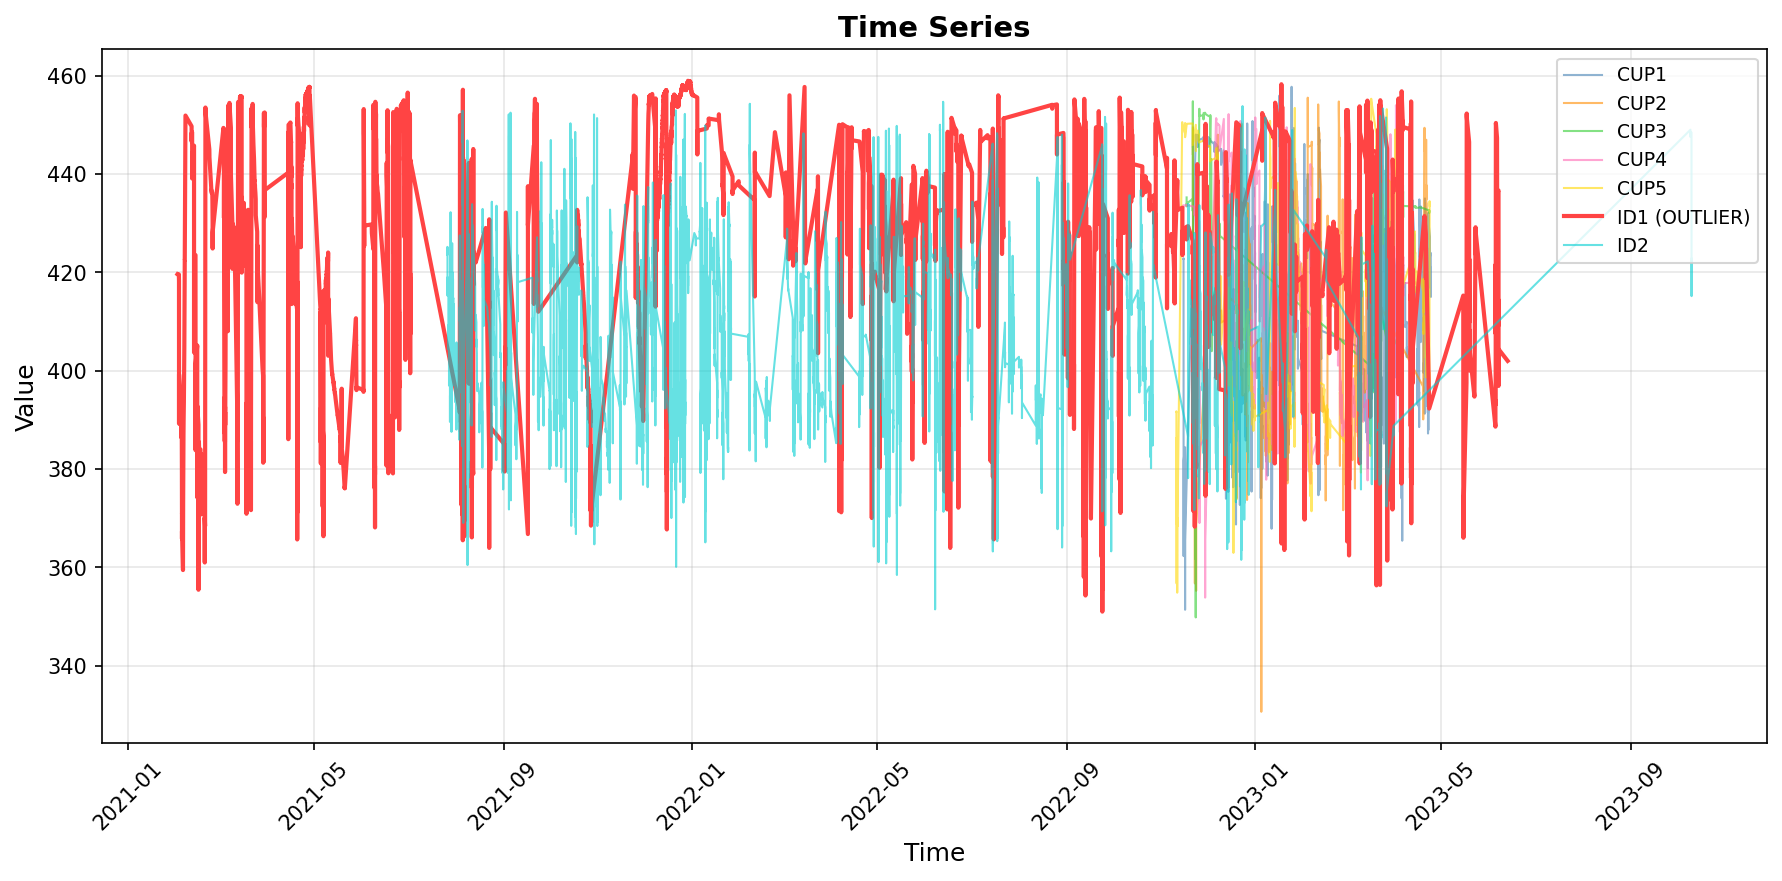
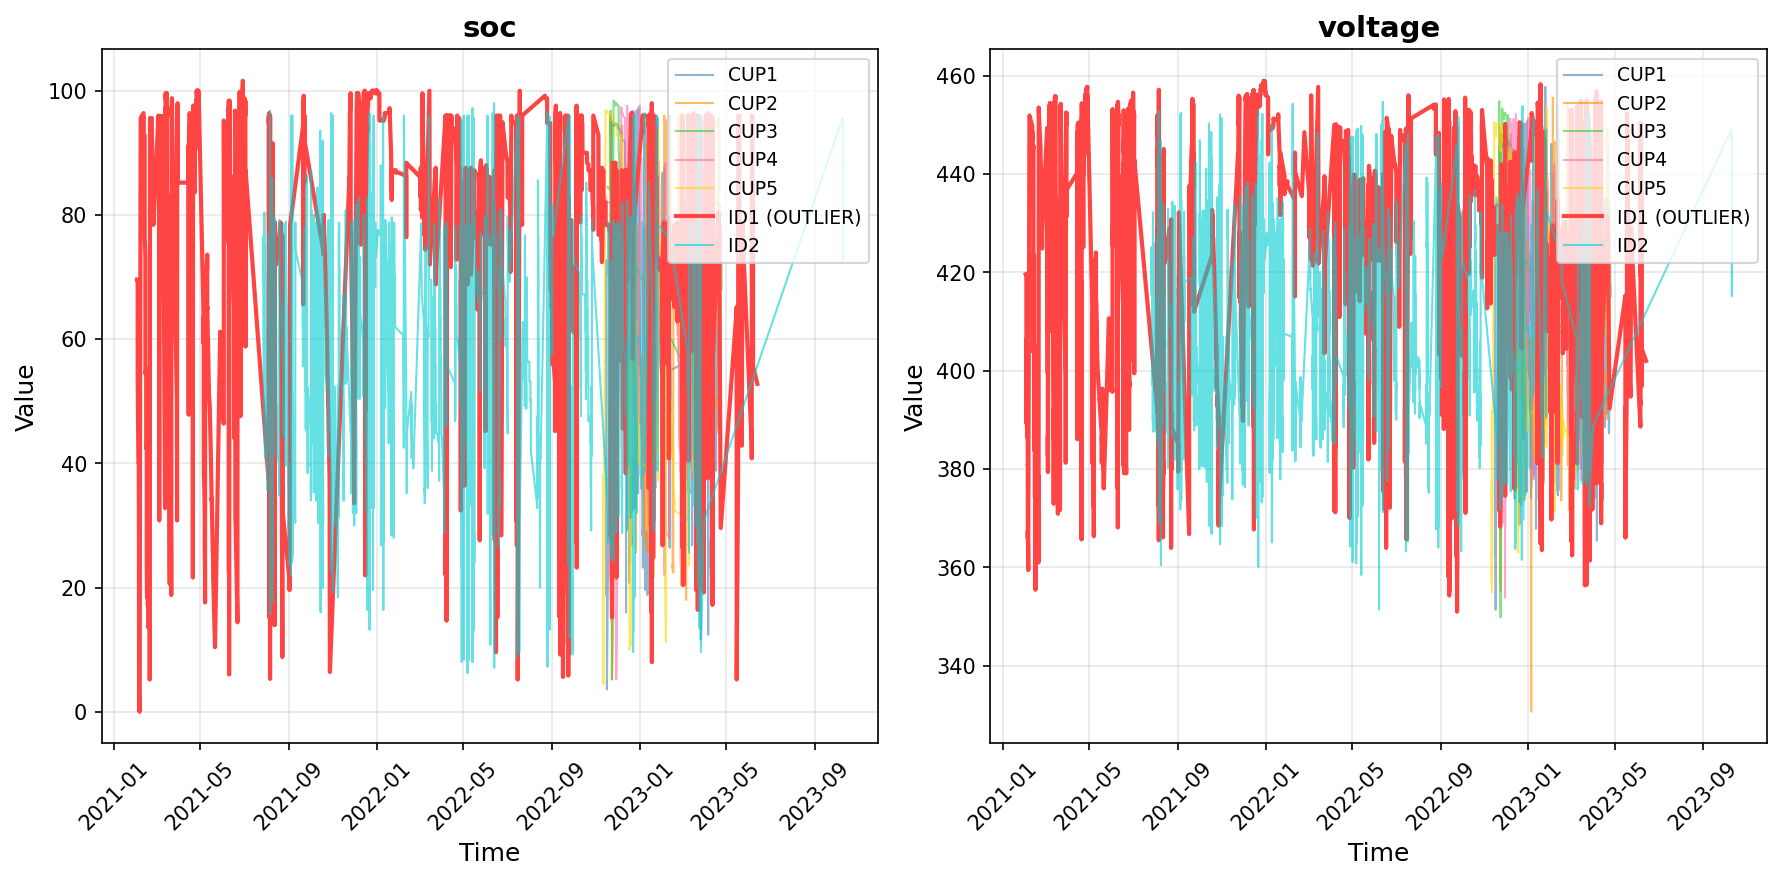
vehicle diagrams generated

diff --git a/src/anomaly_detector.py b/src/anomaly_detector.py
@@ -760,65 +760,69 @@ def generate_plot_data(parameter_anomaly_group_array: List[Dict],
 
     # ========== TIME-SERIES ONLY PLOTS ==========
     if data_type == 'time-series':
-        # Volume (time series)
+        # Volume (time series) - include all features
         plots['volume'] = {'series': []}
         for idx, group in enumerate(parameter_anomaly_group_array):
             group_id = group['parameterAnomalyGroupId']
             is_outlier = group.get('isOutlier', False)
 
             if group['featureArray']:
-                feature = group['featureArray'][0]
-                points = []
+                for feature in group['featureArray']:
+                    feature_name = feature.get('featureName', 'unknown')
+                    points = []
 
-                for point in feature.get('parameterHistoryArray', []):
-                    timestamp_iso = pd.to_datetime(point['createdAt']).isoformat()
-                    value = point['value']
-                    point_is_outlier = point.get('isOutlier', False)
+                    for point in feature.get('parameterHistoryArray', []):
+                        timestamp_iso = pd.to_datetime(point['createdAt']).isoformat()
+                        value = point['value']
+                        point_is_outlier = point.get('isOutlier', False)
 
-                    points.append({
-                        'timestamp': timestamp_iso,
-                        'value': float(value),
-                        'isOutlier': point_is_outlier
+                        points.append({
+                            'timestamp': timestamp_iso,
+                            'value': float(value),
+                            'isOutlier': point_is_outlier
+                        })
+
+                    plots['volume']['series'].append({
+                        'groupId': group_id,
+                        'isOutlier': is_outlier,
+                        'featureName': feature_name,
+                        'points': points
                     })
 
-                plots['volume']['series'].append({
-                    'groupId': group_id,
-                    'isOutlier': is_outlier,
-                    'points': points
-                })
-
-        # Monthly STD trends
+        # Monthly STD trends - include all features
         plots['std'] = {'series': []}
         for idx, group in enumerate(parameter_anomaly_group_array):
             group_id = group['parameterAnomalyGroupId']
             is_outlier = group.get('isOutlier', False)
 
             if group['featureArray']:
-                feature = group['featureArray'][0]
-                param_history = feature.get('parameterHistoryArray', [])
+                for feature in group['featureArray']:
+                    feature_name = feature.get('featureName', 'unknown')
+                    param_history = feature.get('parameterHistoryArray', [])
 
-                if len(param_history) > 0:
-                    df = pd.DataFrame([
-                        {'time': pd.to_datetime(p['createdAt']), 'value': p['value']}
-                        for p in param_history
-                    ])
+                    if len(param_history) > 0:
+                        df = pd.DataFrame([
+                            {'time': pd.to_datetime(p['createdAt']), 'value': p['value']}
+                            for p in param_history
+                        ])
 
-                    df['month'] = df['time'].dt.to_period('M')
-                    monthly_stats = df.groupby('month')['value'].std().reset_index()
-                    monthly_stats['timestamp'] = monthly_stats['month'].dt.to_timestamp()
+                        df['month'] = df['time'].dt.to_period('M')
+                        monthly_stats = df.groupby('month')['value'].std().reset_index()
+                        monthly_stats['timestamp'] = monthly_stats['month'].dt.to_timestamp()
 
-                    data_points = [
-                        [int(row['timestamp'].timestamp() * 1000), row['value']]
-                        for _, row in monthly_stats.iterrows()
-                    ]
+                        data_points = [
+                            [int(row['timestamp'].timestamp() * 1000), row['value']]
+                            for _, row in monthly_stats.iterrows()
+                        ]
 
-                    plots['std']['series'].append({
-                        'groupId': group_id,
-                        'groupName': group_id,
-                        'color': OUTLIER_COLOR if is_outlier else PALETTE[idx % len(PALETTE)],
-                        'lineWidth': 2 if is_outlier else 1,
-                        'dataPoints': data_points
-                    })
+                        plots['std']['series'].append({
+                            'groupId': group_id,
+                            'groupName': group_id,
+                            'featureName': feature_name,
+                            'color': OUTLIER_COLOR if is_outlier else PALETTE[idx % len(PALETTE)],
+                            'lineWidth': 2 if is_outlier else 1,
+                            'dataPoints': data_points
+                        })
 
         # Heatmap (hourly patterns)
         hours = list(range(24))
@@ -1051,91 +1055,141 @@ def render_plots(plots: Dict[str, Any], metadata: Dict[str, Any], groups: List[D
 
     saved_files = []
 
-    # 1. Time Series Plot
+    # 1. Time Series Plot - one subplot per feature
     if plots.get('volume') and plots['volume'].get('series'):
-        fig, ax = plt.subplots(figsize=(12, 6))
-        for idx, series in enumerate(plots['volume']['series']):
-            group_id = series['groupId']
-            is_outlier = series['isOutlier']
-            points = series['points']
+        # Group series by feature name
+        feature_names = sorted(set(s.get('featureName', 'unknown') for s in plots['volume']['series']))
+        n_features = len(feature_names)
 
-            if points:
-                times = [pd.to_datetime(p['timestamp']) for p in points]
-                values = [p['value'] for p in points]
+        fig, axes = plt.subplots(1, n_features, figsize=(6 * n_features, 6), squeeze=False)
+        axes = axes[0]  # Flatten to 1D array
 
-                color = OUTLIER_COLOR if is_outlier else PALETTE[idx % len(PALETTE)]
-                linewidth = 2 if is_outlier else 1
-                alpha = 1.0 if is_outlier else 0.6
-                label = f"{group_id} {'(OUTLIER)' if is_outlier else ''}"
+        for feat_idx, feature_name in enumerate(feature_names):
+            ax = axes[feat_idx]
+            group_idx = 0  # Track group index for coloring
 
-                ax.plot(times, values, color=color, linewidth=linewidth, alpha=alpha, label=label)
+            for series in plots['volume']['series']:
+                if series.get('featureName', 'unknown') != feature_name:
+                    continue
 
-        ax.set_xlabel('Time', fontsize=12)
-        ax.set_ylabel('Value', fontsize=12)
-        ax.set_title('Time Series', fontsize=14, fontweight='bold')
-        ax.legend(loc='upper right', fontsize=9)
-        ax.grid(True, alpha=0.3)
-        ax.tick_params(axis='x', rotation=45)
+                group_id = series['groupId']
+                is_outlier = series['isOutlier']
+                points = series['points']
+
+                if points:
+                    times = [pd.to_datetime(p['timestamp']) for p in points]
+                    values = [p['value'] for p in points]
+
+                    color = OUTLIER_COLOR if is_outlier else PALETTE[group_idx % len(PALETTE)]
+                    linewidth = 2 if is_outlier else 1
+                    alpha = 1.0 if is_outlier else 0.6
+                    label = f"{group_id} {'(OUTLIER)' if is_outlier else ''}"
+
+                    ax.plot(times, values, color=color, linewidth=linewidth, alpha=alpha, label=label)
+                    group_idx += 1
+
+            ax.set_xlabel('Time', fontsize=12)
+            ax.set_ylabel('Value', fontsize=12)
+            ax.set_title(f'{feature_name}', fontsize=14, fontweight='bold')
+            ax.legend(loc='upper right', fontsize=9)
+            ax.grid(True, alpha=0.3)
+            ax.tick_params(axis='x', rotation=45)
+
         plt.tight_layout()
         filepath = save_dir / '01_time_series.png'
         plt.savefig(filepath, dpi=150, bbox_inches='tight')
         plt.close()
         saved_files.append(filepath)
 
-    # 2. Box Plot
+    # 2. Box Plot - one subplot per feature
     if plots.get('boxPlot') and plots['boxPlot'].get('boxes'):
-        fig, ax = plt.subplots(figsize=(10, 6))
+        # Get all feature names from groups
+        feature_names = []
+        for group in groups:
+            if group.get('featureArray'):
+                for feature in group['featureArray']:
+                    fname = feature.get('featureName', 'unknown')
+                    if fname not in feature_names:
+                        feature_names.append(fname)
+        feature_names = sorted(feature_names)
+        n_features = len(feature_names) if feature_names else 1
+
+        fig, axes = plt.subplots(1, n_features, figsize=(5 * n_features, 6), squeeze=False)
+        axes = axes[0]
+
         boxes = plots['boxPlot']['boxes']
-        positions = list(range(len(boxes)))
-        labels = []
 
-        for idx, box in enumerate(boxes):
-            group_id = box['groupId']
-            labels.append(group_id)
+        for feat_idx, feature_name in enumerate(feature_names):
+            ax = axes[feat_idx]
+            positions = list(range(len(boxes)))
+            labels = []
 
-            for group in groups:
-                if group['parameterAnomalyGroupId'] == group_id:
-                    if group['featureArray']:
-                        values = [p['value'] for p in group['featureArray'][0].get('parameterHistoryArray', [])]
-                        if values:
-                            bp = ax.boxplot([values], positions=[idx], widths=0.6, patch_artist=True)
-                            color = OUTLIER_COLOR if group.get('isOutlier') else NORMAL_COLOR
-                            bp['boxes'][0].set_facecolor(color)
-                            bp['boxes'][0].set_alpha(0.6)
-                    break
+            for idx, box in enumerate(boxes):
+                group_id = box['groupId']
+                labels.append(group_id)
 
-        ax.set_xticks(positions)
-        ax.set_xticklabels(labels, rotation=45)
-        ax.set_ylabel('Value', fontsize=12)
-        ax.set_title('Distribution by Group', fontsize=14, fontweight='bold')
-        ax.grid(True, alpha=0.3, axis='y')
+                for group in groups:
+                    if group['parameterAnomalyGroupId'] == group_id:
+                        if group['featureArray']:
+                            for feature in group['featureArray']:
+                                if feature.get('featureName', 'unknown') == feature_name:
+                                    values = [p['value'] for p in feature.get('parameterHistoryArray', [])]
+                                    if values:
+                                        bp = ax.boxplot([values], positions=[idx], widths=0.6, patch_artist=True)
+                                        color = OUTLIER_COLOR if group.get('isOutlier') else NORMAL_COLOR
+                                        bp['boxes'][0].set_facecolor(color)
+                                        bp['boxes'][0].set_alpha(0.6)
+                                    break
+                        break
+
+            ax.set_xticks(positions)
+            ax.set_xticklabels(labels, rotation=45)
+            ax.set_ylabel('Value', fontsize=12)
+            ax.set_title(f'{feature_name}', fontsize=14, fontweight='bold')
+            ax.grid(True, alpha=0.3, axis='y')
+
         plt.tight_layout()
         filepath = save_dir / '02_box_plot.png'
         plt.savefig(filepath, dpi=150, bbox_inches='tight')
         plt.close()
         saved_files.append(filepath)
 
-    # 3. Monthly STD Trends
+    # 3. Monthly STD Trends - one subplot per feature
     if plots.get('std') and plots['std'].get('series'):
-        fig, ax = plt.subplots(figsize=(12, 6))
-        for series in plots['std']['series']:
-            group_id = series['groupId']
-            data_points = series['dataPoints']
-            color = series['color']
-            linewidth = series['lineWidth']
+        # Group series by feature name
+        feature_names = sorted(set(s.get('featureName', 'unknown') for s in plots['std']['series']))
+        n_features = len(feature_names)
 
-            if data_points:
-                times = [pd.to_datetime(p[0], unit='ms') for p in data_points]
-                values = [p[1] for p in data_points]
+        fig, axes = plt.subplots(1, n_features, figsize=(6 * n_features, 6), squeeze=False)
+        axes = axes[0]
 
-                ax.plot(times, values, label=group_id, color=color, linewidth=linewidth, marker='o', markersize=4)
+        for feat_idx, feature_name in enumerate(feature_names):
+            ax = axes[feat_idx]
+            group_idx = 0
 
-        ax.set_xlabel('Month', fontsize=12)
-        ax.set_ylabel('Standard Deviation', fontsize=12)
-        ax.set_title('Monthly Variability Trend', fontsize=14, fontweight='bold')
-        ax.legend(loc='upper right', fontsize=9)
-        ax.grid(True, alpha=0.3)
-        ax.tick_params(axis='x', rotation=45)
+            for series in plots['std']['series']:
+                if series.get('featureName', 'unknown') != feature_name:
+                    continue
+
+                group_id = series['groupId']
+                data_points = series['dataPoints']
+                color = series['color']
+                linewidth = series['lineWidth']
+
+                if data_points:
+                    times = [pd.to_datetime(p[0], unit='ms') for p in data_points]
+                    values = [p[1] for p in data_points]
+
+                    ax.plot(times, values, label=group_id, color=color, linewidth=linewidth, marker='o', markersize=4)
+                    group_idx += 1
+
+            ax.set_xlabel('Month', fontsize=12)
+            ax.set_ylabel('Standard Deviation', fontsize=12)
+            ax.set_title(f'{feature_name}', fontsize=14, fontweight='bold')
+            ax.legend(loc='upper right', fontsize=9)
+            ax.grid(True, alpha=0.3)
+            ax.tick_params(axis='x', rotation=45)
+
         plt.tight_layout()
         filepath = save_dir / '03_monthly_std.png'
         plt.savefig(filepath, dpi=150, bbox_inches='tight')
